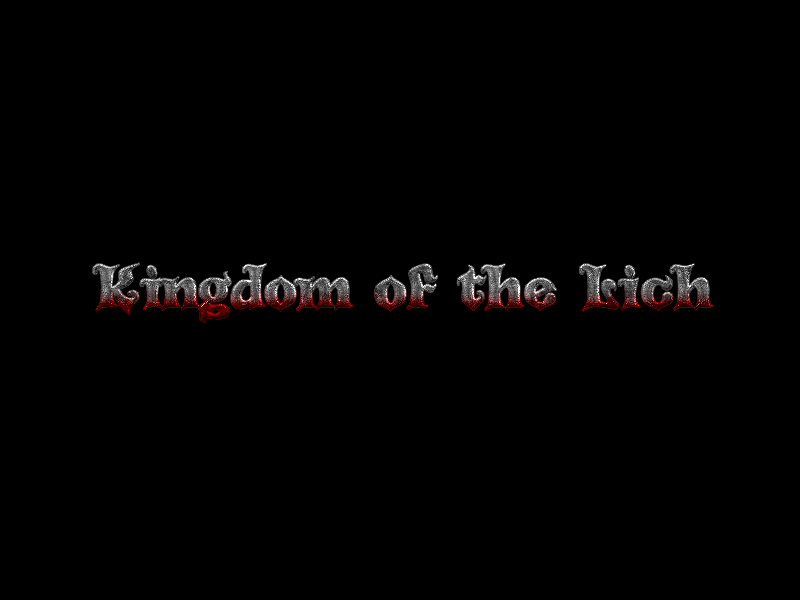
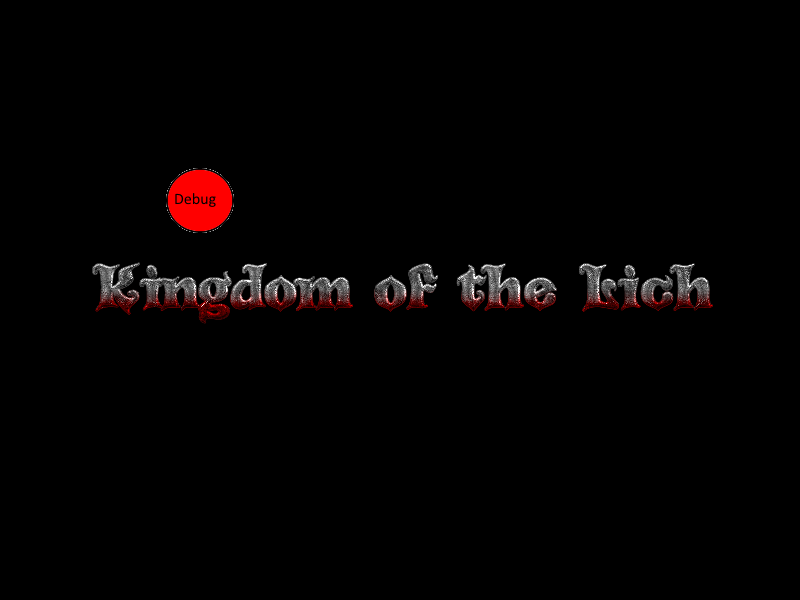
Player draw and movement, camera, minimal key/controller input

Changed region(s): [[0.1875, 0.27, 0.3125, 0.39]]

diff --git a/Kingdom of the Lich/Kingdom of the Lich/Kingdom of the Lich.cpp b/Kingdom of the Lich/Kingdom of the Lich/Kingdom of the Lich.cpp
@@ -32,12 +32,6 @@
 ///Entrypoint of application 
 //////////////////////////////////////////////////////////// 
 
-//handle input for keyboard/controller
-void handleInput(bool controller)
-{
-
-}
-
 
 int main()
 {
@@ -54,7 +48,7 @@ int main()
 	sf::Font font;
 	font.loadFromFile("C:\\Windows\\Fonts\\GARA.TTF");
 
-	//Player* p = new Player();
+	Player* p = new Player();
 
 	window.setFramerateLimit(60);
 
@@ -91,7 +85,7 @@ int main()
 	}
 	else
 	{
-		std::cout << "	* No controller detected." << std::endl;
+		std::cout << "	* No controller detected. You will need to use your keyboard to play." << std::endl;
 		useController = false;
 	}
 
@@ -111,18 +105,57 @@ int main()
 				window.close();
 
 
-			if ((Event.type == sf::Event::KeyPressed) && (Event.key.code == sf::Keyboard::P))
+			if (useController == true)//use controller
 			{
-				screenShot = window.capture();
-				//time_t t = time(0);   // get time now
-				//struct tm * now = localtime(&t);
-				//int year = now->tm_year;
-				//int month = now->tm_mon;
-				//int day = now->tm_mday;
-				//int hour = now->tm_hour;
-				//int minute = now->tm_min;
-				//sf::String dateInfo = year + "-" + month+day+hour+minute;
-				screenShot.saveToFile("Assets/ScreenShots/testImg.png");
+				if (state.Gamepad.wButtons & XINPUT_GAMEPAD_DPAD_UP)
+				{
+					p->Move(sf::Vector2f(0, -1));
+				}
+				if (state.Gamepad.wButtons & XINPUT_GAMEPAD_DPAD_DOWN)
+				{
+					p->Move(sf::Vector2f(0, 1));
+				}
+				if (state.Gamepad.wButtons & XINPUT_GAMEPAD_DPAD_RIGHT)
+				{
+					p->Move(sf::Vector2f(-1, 0));
+				}
+				if (state.Gamepad.wButtons & XINPUT_GAMEPAD_DPAD_LEFT)
+				{
+					p->Move(sf::Vector2f(1, 0));
+				}
+			}
+			else//use keyboard
+			{
+				if (sf::Keyboard::isKeyPressed(sf::Keyboard::W))//up
+				{
+					p->Move(sf::Vector2f(0, -1));
+				}
+				else if (sf::Keyboard::isKeyPressed(sf::Keyboard::S))//down
+				{
+					p->Move(sf::Vector2f(0, 1));
+				}
+				else if (sf::Keyboard::isKeyPressed(sf::Keyboard::A))//left
+				{
+					p->Move(sf::Vector2f(-1, 0));
+				}
+				else if (sf::Keyboard::isKeyPressed(sf::Keyboard::D))//right
+				{
+					p->Move(sf::Vector2f(1, 0));
+				}
+
+				else if (sf::Keyboard::isKeyPressed(sf::Keyboard::P))//up
+				{
+					screenShot = window.capture();
+					//time_t t = time(0);   // get time now
+					//struct tm * now = localtime(&t);
+					//int year = now->tm_year;
+					//int month = now->tm_mon;
+					//int day = now->tm_mday;
+					//int hour = now->tm_hour;
+					//int minute = now->tm_min;
+					//sf::String dateInfo = year + "-" + month+day+hour+minute;
+					screenShot.saveToFile("Assets/ScreenShots/testImg.png");
+				}
 			}
 
 		}
@@ -130,16 +163,16 @@ int main()
 		
 
 		//update sf::View center position
-		//player_view.setCenter(p->getPosition());
+		player_view.setCenter(p->getPosition());
 
 		//set view of window to be player_view
-		//window.setView(player_view);
+		window.setView(player_view);
 
 
 		//prepare frame
 		window.clear();
 		//draw frame items
-		//p->draw(*pWindow);
+		p->draw(*pWindow);
 		window.draw(startup);
 
 								 // Finally, display rendered frame on screen 

diff --git a/Kingdom of the Lich/Kingdom of the Lich/Player.cpp b/Kingdom of the Lich/Kingdom of the Lich/Player.cpp
@@ -3,7 +3,12 @@
 
 Player::Player()
 {
-
+	//load the correct texture or load the debug texture if something is wrong
+	if (mTexture.loadFromFile("Assets/Icons/goldskull.png")) {}
+	else mTexture.loadFromFile("Assets/Debug.png");	//if it fails load placeholder
+	mSprite.setOrigin(sf::Vector2f(mTexture.getSize().x / 2, mTexture.getSize().y / 2));
+	mSprite.setTexture(mTexture);
+	setPosition(200, 200);
 }
 
 Player::~Player()
@@ -16,14 +21,14 @@ void Player::Update()
 
 }
 
-void Player::Move()
+void Player::Move(sf::Vector2f direction)
 {
-
+	setPosition(getPosition() + direction);
 }
 
 void Player::draw(sf::RenderTarget& window, sf::RenderStates state) const{}
 
 void Player::draw(sf::RenderTarget& window)
 {
-	//window.draw(mSprite, getTransform());
+	window.draw(mSprite, getTransform());
 }

diff --git a/Kingdom of the Lich/Kingdom of the Lich/Player.h b/Kingdom of the Lich/Kingdom of the Lich/Player.h
@@ -23,7 +23,7 @@ public:
 
 	//void boundary();
 
-	void Move();
+	void Move(sf::Vector2f direction);
 
 	void draw(sf::RenderTarget& window, sf::RenderStates state) const;
 	void Player::draw(sf::RenderTarget& window);
